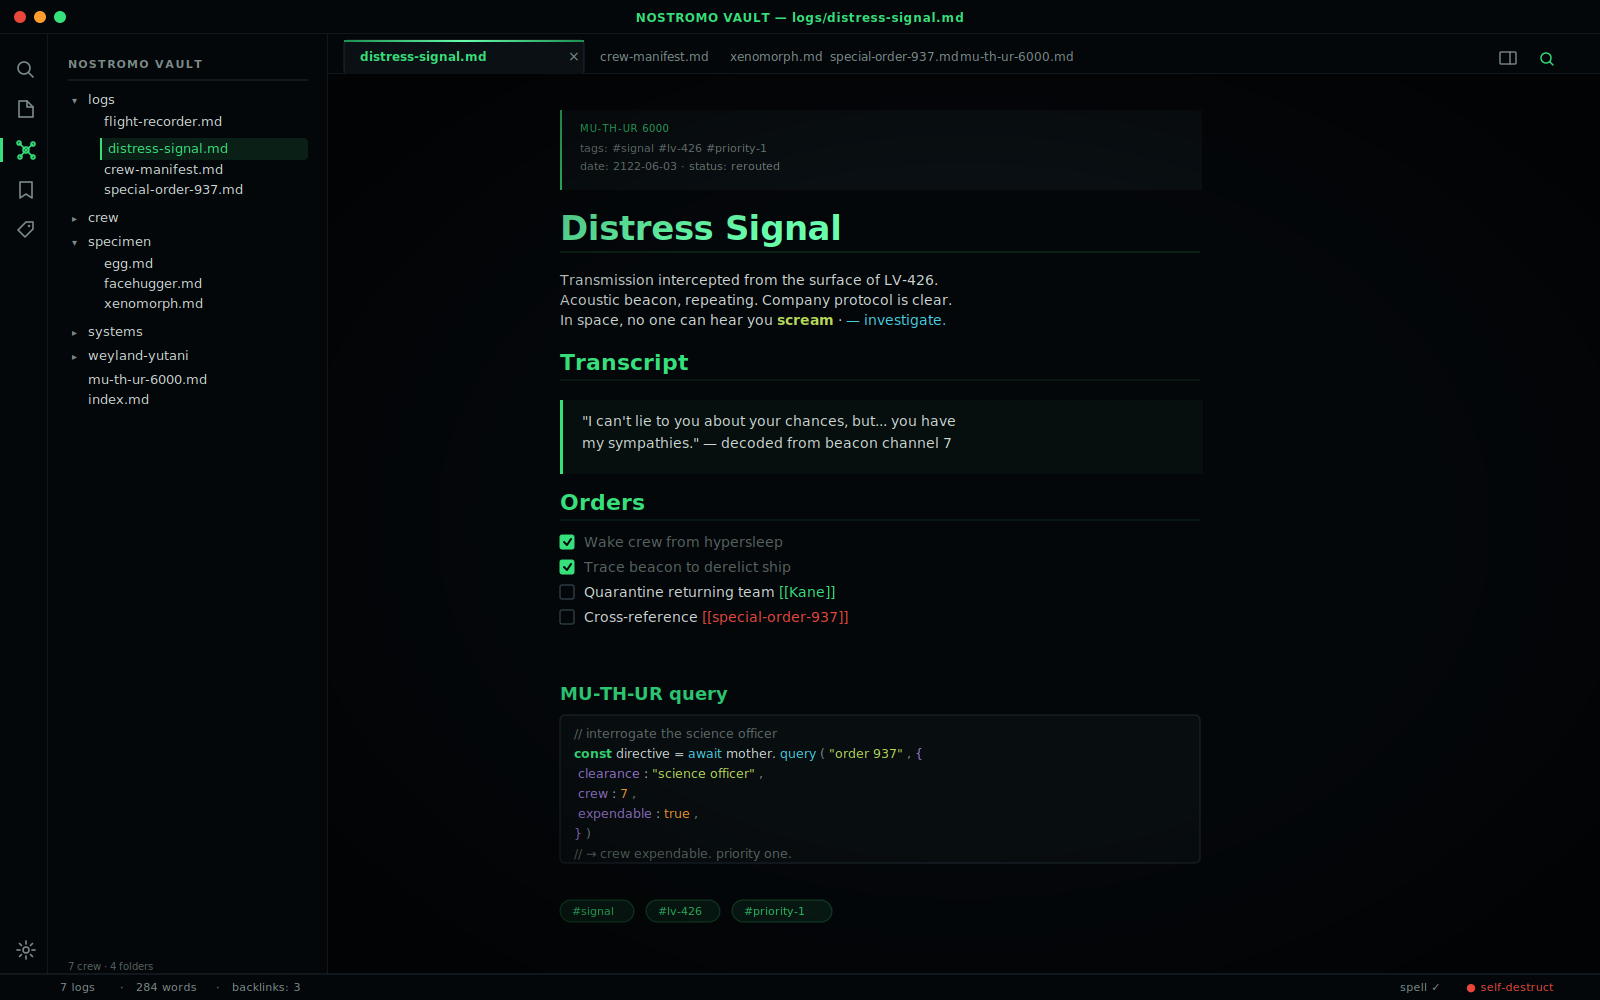
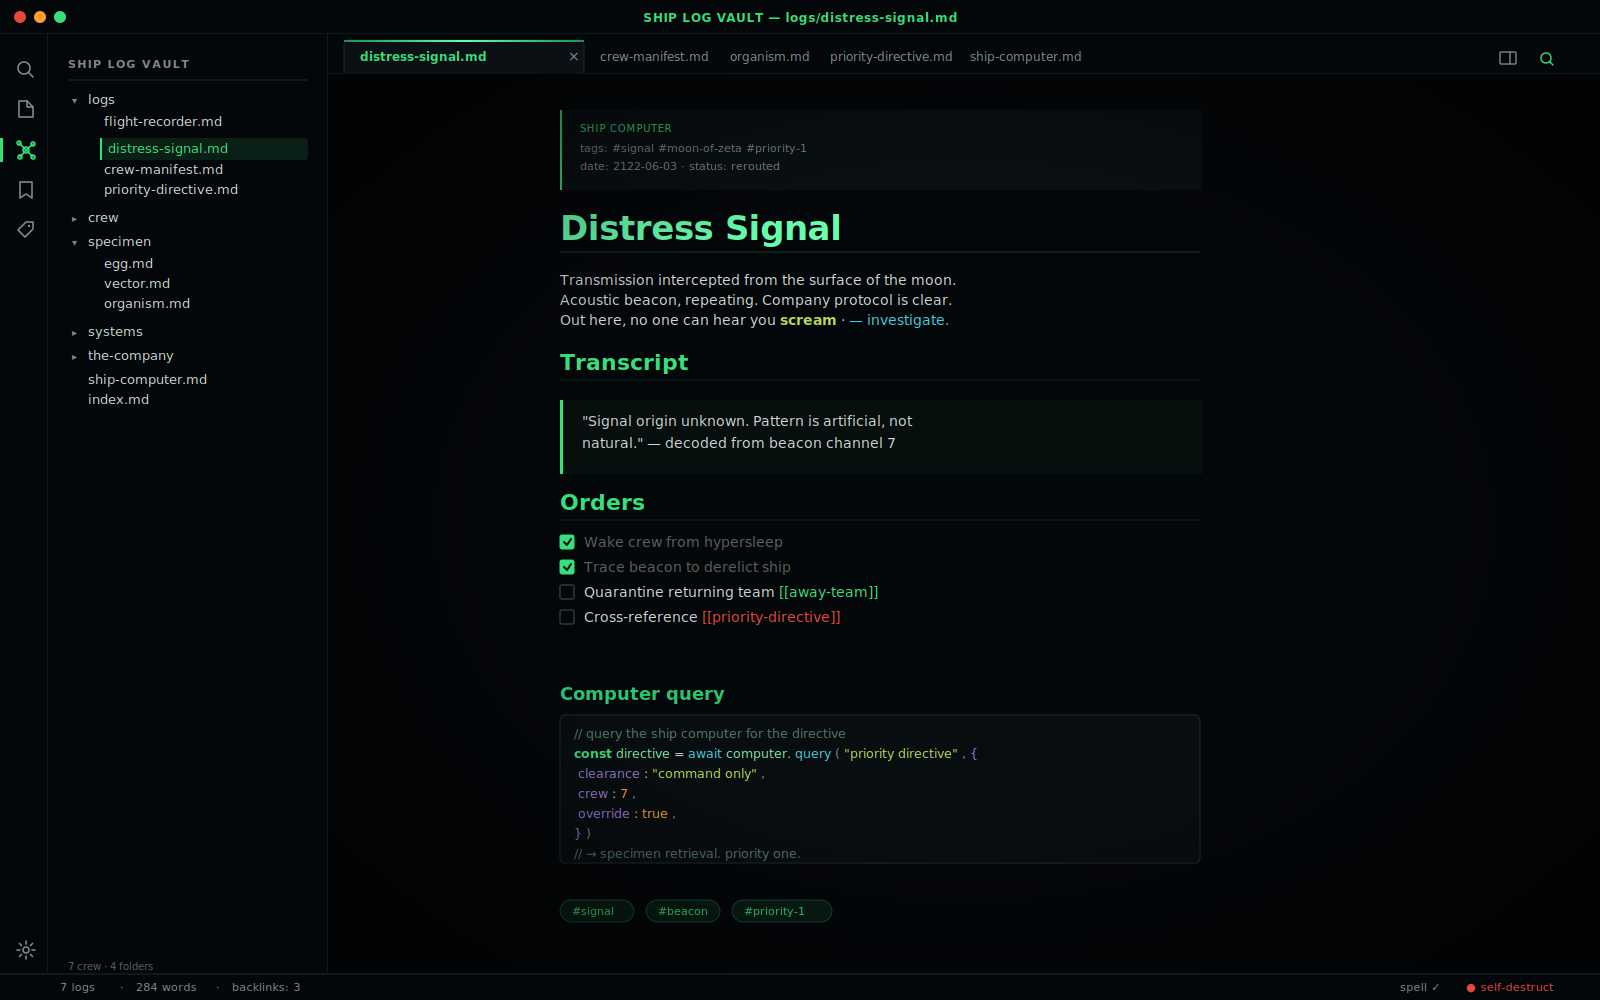
Add Xenophos — a deep-space terminal Obsidian theme (#2)
* Fix toggle switches in settings being styled as task checkboxes

Scope the custom checkbox styling to Markdown task list items
(.markdown-preview-view / .markdown-source-view) and exclude
checkbox/radio/range inputs from the generic input styling, so
Obsidian's toggle switches in Settings render correctly.

* Rename to Xenophos and make code blocks digital phosphor green

Rename the theme from Alien to Xenophos and scrub franchise-specific
references (ship names, characters, places) for community-directory
submission. Code block base text now renders in a digital phosphor
green to match the CRT terminal aesthetic, in both the CSS and the
preview screenshot.

diff --git a/theme.css b/theme.css
@@ -1,8 +1,8 @@
 /*
-  Alien — an Obsidian theme inspired by the original Alien films.
-  The look of the Nostromo: deep-space black, the green phosphor glow of
-  MU-TH-UR's terminals, acid-blood lime, hazard amber, and a red alert
-  reserved for things that have gone wrong.
+  Xenophos — a deep-space terminal theme for Obsidian.
+  Deep-space black, the green phosphor glow of an old CRT ship-computer,
+  acid lime, hazard amber, and a red alert reserved for things that have
+  gone wrong.
   Palette:
     Void Black        #04070a
     Hull              #0a1014
@@ -112,10 +112,11 @@
   --tag-border-color:     rgba(54, 224, 122, 0.30);
   --tag-border-color-hover: var(--al-phosphor);
 
-  /* Code */
+  /* Code — terminal readout: base text glows digital phosphor green */
+  --al-terminal:      #7fe6a6;
   --code-background:  #080d10;
-  --code-normal:      var(--al-bone);
-  --code-comment:     #5d6b67;
+  --code-normal:      var(--al-terminal);
+  --code-comment:     #4f7a63;
   --code-keyword:     var(--al-phosphor);
   --code-function:    var(--al-cyan);
   --code-tag:         var(--al-phosphor-bright);
@@ -194,7 +195,7 @@
   --radius-l: 8px;
 }
 
-/* Light variant — "off-ship": LV-426 daylight. Same DNA, softened. */
+/* Light variant — "powered down": daylight off the ship. Same DNA, softened. */
 .theme-light {
   --al-paper:        #eef2ee;
   --al-paper-2:      #e3e9e3;
@@ -243,6 +244,7 @@
   --link-external-color:  var(--al-cyan);
 
   --code-background: #e1e7e0;
+  --code-normal:     #0f5e34;
   --code-comment:    #7c857d;
   --code-keyword:    var(--al-phosphor);
   --code-function:   var(--al-cyan);
@@ -402,6 +404,7 @@
 }
 
 /* Headings — phosphor terminal glow, descending in intensity */
+/* (the green CRT glow of an old ship-computer readout) */
 .theme-dark .markdown-preview-view h1,
 .theme-dark .HyperMD-header-1,
 .theme-dark .cm-header-1 {
@@ -439,7 +442,7 @@
 .theme-dark .HyperMD-header-6,
 .theme-dark .cm-header-6 { color: var(--h6-color); font-weight: 600; text-transform: uppercase; letter-spacing: 0.08em; }
 
-/* Strong / em — acid blood and scanner cyan */
+/* Strong / em — acid lime and scanner cyan */
 .theme-dark .markdown-preview-view strong,
 .theme-dark .cm-strong { color: var(--al-acid); font-weight: 700; }
 
@@ -475,14 +478,20 @@ body.theme-dark .HyperMD-codeblock-bg {
   background-color: var(--code-background);
   border: 1px solid var(--al-conduit);
   border-radius: var(--radius-m);
-  color: var(--al-bone);
+  color: var(--code-normal);
 }
 
 .theme-dark pre code {
   background: transparent;
   border: none;
-  color: var(--al-bone);
+  color: var(--code-normal);
   padding: 0;
+}
+
+/* Live-preview code block text — keep the digital green terminal readout */
+.theme-dark .HyperMD-codeblock,
+.theme-dark .cm-line.HyperMD-codeblock {
+  color: var(--code-normal);
 }
 
 /* Syntax highlighting (Prism-style classes used by Obsidian preview) */
@@ -566,8 +575,10 @@ body.theme-dark .cm-hmd-internal-link.is-unresolved {
   font-weight: 600;
 }
 
-/* Checkboxes */
-.theme-dark input[type="checkbox"] {
+/* Checkboxes — scoped to Markdown task list items so we don't clobber
+   Obsidian's toggle switches (which use a hidden checkbox in .checkbox-container) */
+.theme-dark .markdown-preview-view input[type="checkbox"],
+.theme-dark .markdown-source-view input[type="checkbox"] {
   appearance: none;
   -webkit-appearance: none;
   width: 16px;
@@ -581,16 +592,19 @@ body.theme-dark .cm-hmd-internal-link.is-unresolved {
   transition: border-color 120ms ease, background-color 120ms ease;
 }
 
-.theme-dark input[type="checkbox"]:hover {
+.theme-dark .markdown-preview-view input[type="checkbox"]:hover,
+.theme-dark .markdown-source-view input[type="checkbox"]:hover {
   border-color: var(--al-phosphor);
 }
 
-.theme-dark input[type="checkbox"]:checked {
+.theme-dark .markdown-preview-view input[type="checkbox"]:checked,
+.theme-dark .markdown-source-view input[type="checkbox"]:checked {
   background-color: var(--al-phosphor);
   border-color: var(--al-phosphor);
 }
 
-.theme-dark input[type="checkbox"]:checked::after {
+.theme-dark .markdown-preview-view input[type="checkbox"]:checked::after,
+.theme-dark .markdown-source-view input[type="checkbox"]:checked::after {
   content: "";
   position: absolute;
   top: 1px;
@@ -674,7 +688,7 @@ body.theme-dark .cm-hmd-internal-link.is-unresolved {
 
 .theme-dark button,
 .theme-dark .clickable-icon,
-.theme-dark input,
+.theme-dark input:not([type="checkbox"]):not([type="radio"]):not([type="range"]),
 .theme-dark textarea,
 .theme-dark select {
   background-color: var(--al-bulkhead);
@@ -713,7 +727,7 @@ body.theme-dark .cm-hmd-internal-link.is-unresolved {
   border-color: var(--al-alert);
 }
 
-.theme-dark input:focus,
+.theme-dark input:not([type="checkbox"]):not([type="radio"]):not([type="range"]):focus,
 .theme-dark textarea:focus,
 .theme-dark select:focus {
   border-color: var(--al-phosphor);
@@ -843,7 +857,7 @@ body.theme-dark .cm-hmd-internal-link.is-unresolved {
 }
 
 /* =========================================================
-   7. CALLOUTS — re-skinned with the Alien palette
+   7. CALLOUTS — re-skinned with the Xenophos palette
    ========================================================= */
 
 .theme-dark .callout {
@@ -873,7 +887,7 @@ body.theme-dark .cm-hmd-internal-link.is-unresolved {
 .theme-dark .callout[data-callout="cite"]     { --callout-color: 154, 122, 214; }
 
 /* =========================================================
-   8. SUBTLE NOSTROMO TOUCHES
+   8. SUBTLE TERMINAL TOUCHES
    ========================================================= */
 
 /* Soft phosphor vignette on the active editor — the glow of a CRT */
@@ -881,7 +895,7 @@ body.theme-dark .cm-hmd-internal-link.is-unresolved {
   box-shadow: inset 0 0 90px rgba(0, 0, 0, 0.50);
 }
 
-/* Frontmatter — read like a MU-TH-UR data block */
+/* Frontmatter — read like a ship-computer data block */
 .theme-dark .frontmatter,
 .theme-dark .metadata-container {
   background-color: var(--al-hull);

diff --git a/README.md b/README.md
@@ -1,9 +1,8 @@
-# Alien — an Obsidian theme
+# Xenophos — an Obsidian theme
 
-A theme for [Obsidian](https://obsidian.md) inspired by the original *Alien*
-films. The deep black of space, the green phosphor glow of the Nostromo's
-MU-TH-UR terminals, acid-blood lime, and hazard amber — with a red alert held
-back for errors and unresolved links.
+A deep-space terminal theme for [Obsidian](https://obsidian.md). The black of
+deep space, the green phosphor glow of an old CRT ship-computer, acid lime, and
+hazard amber — with a red alert held back for errors and unresolved links.
 
 ## Palette
 
@@ -26,9 +25,9 @@ grey so heading hierarchy stays legible at a glance.
 
 ### Manually
 
-1. Copy this folder into your vault at `<vault>/.obsidian/themes/Alien/`
+1. Copy this folder into your vault at `<vault>/.obsidian/themes/Xenophos/`
    — the folder must contain `manifest.json` and `theme.css`.
-2. In Obsidian: **Settings → Appearance → Themes → Alien**.
+2. In Obsidian: **Settings → Appearance → Themes → Xenophos**.
 
 ### From the community directory
 
@@ -38,11 +37,11 @@ Not yet listed. PRs welcome.
 
 - Obsidian 1.4+
 - Default core plugins (Graph, Outline, Tags, Search, Bookmarks)
-- Light mode included (off-ship — LV-426 daylight, softened green + amber)
+- Light mode included (powered down — softened green + amber daylight)
 
 ## Notes
 
-- Headings, links, tags, and the active tab glow in MU-TH-UR phosphor green.
+- Headings, links, tags, and the active tab glow in CRT phosphor green.
 - Code blocks use a near-black terminal background with green keywords, acid-lime
   strings, and amber numbers.
 - Blockquotes get a green left bar and a faint glow — the terminal "signal" motif.
